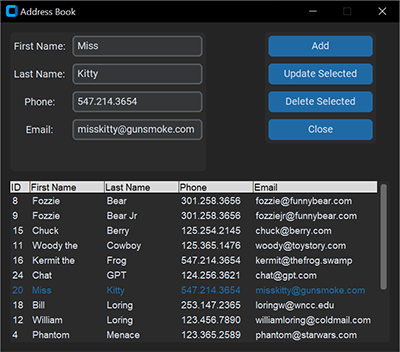
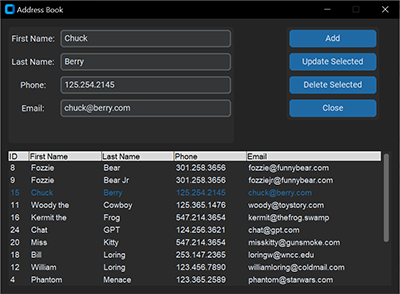
Update

diff --git a/address_book_gui_ct.py b/address_book_gui_ct.py
@@ -266,7 +266,7 @@ class AddressBook(ct.CTk):
         self.lbl_status = ct.CTkLabel(self.entry_frame, text=" ", anchor="w")
 
         # -------------------- CREATE ENTRY BOXES ------------------------ #
-        ENTRY_WIDTH = 175
+        ENTRY_WIDTH = 275
         self.entry_fname = ct.CTkEntry(self.entry_frame, width=ENTRY_WIDTH)
         # Set focus for data entry
         self.entry_fname.focus_set()
@@ -360,11 +360,11 @@ class AddressBook(ct.CTk):
         )
 
         # Setup the columns
-        self.tree.column("id", width=40)
-        self.tree.column("first_name", width=150)
-        self.tree.column("last_name", width=150)
-        self.tree.column("phone", width=150)
-        self.tree.column("email", width=250)
+        self.tree.column("id", width=50)
+        self.tree.column("first_name", width=175)
+        self.tree.column("last_name", width=175)
+        self.tree.column("phone", width=175)
+        self.tree.column("email", width=325)
 
         # Setup the heading text visible at the top of the column
         self.tree.heading("id", text="ID", anchor=ct.W)
